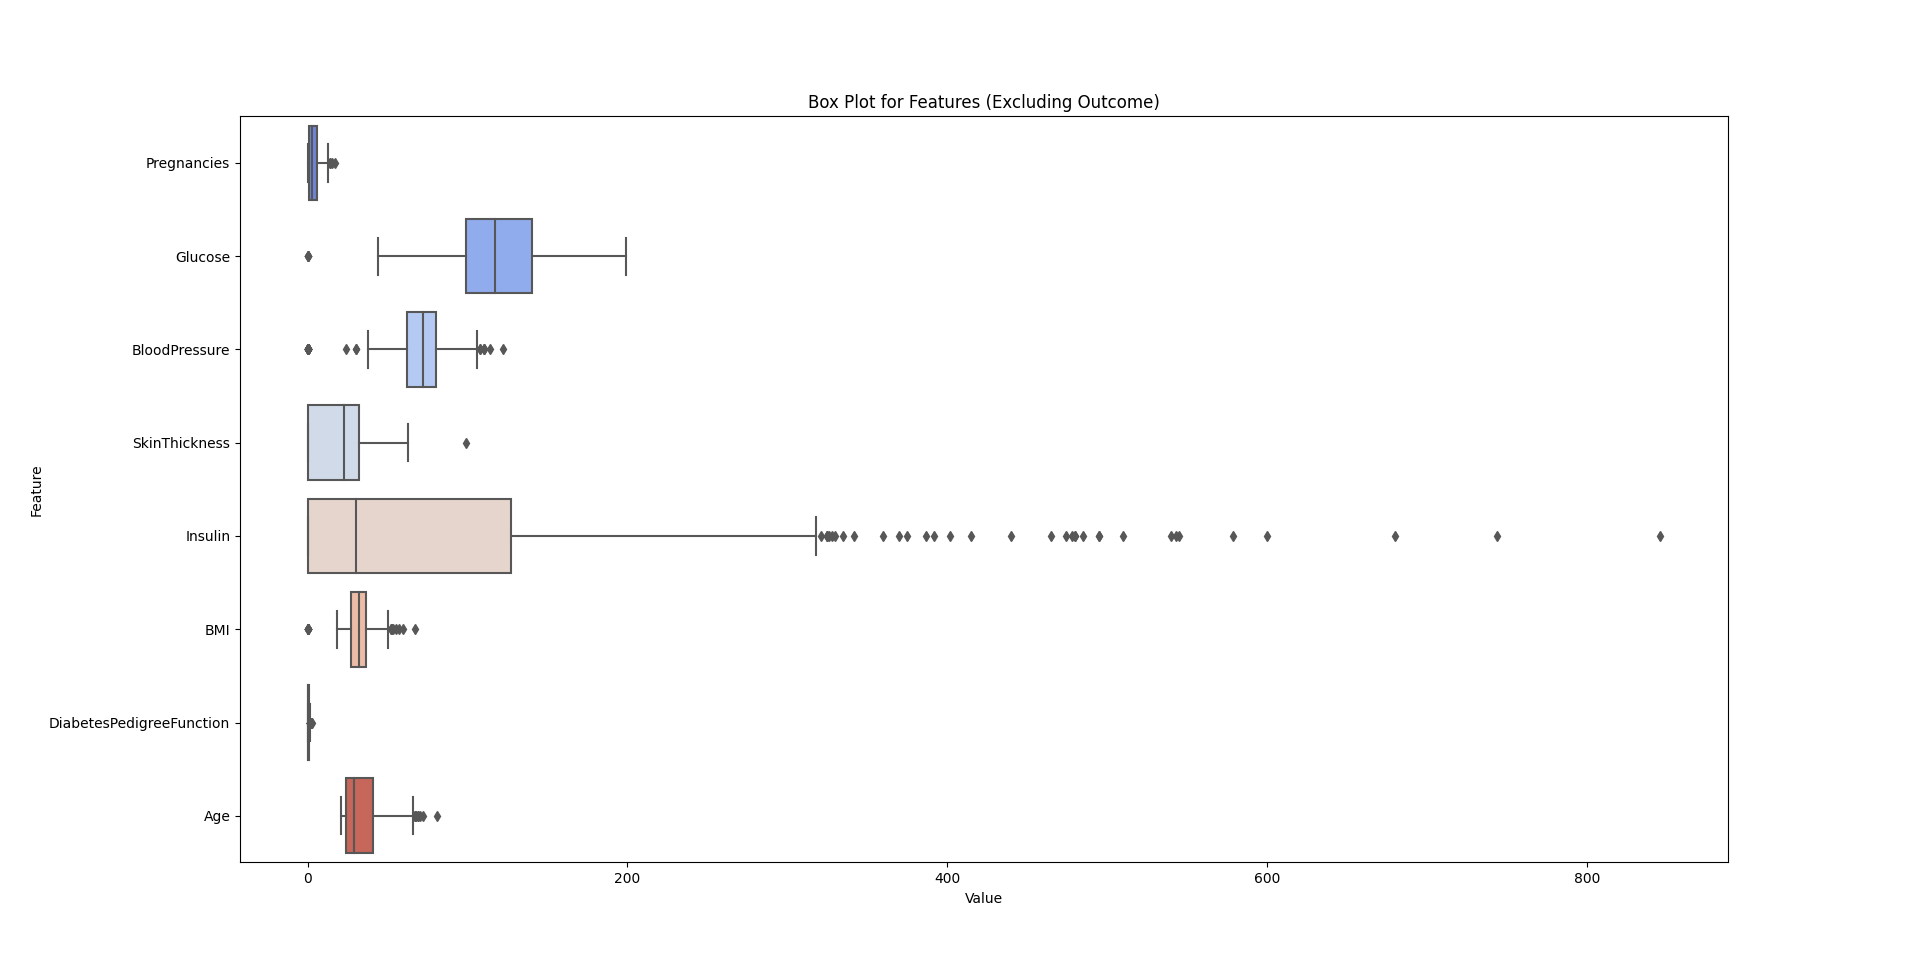
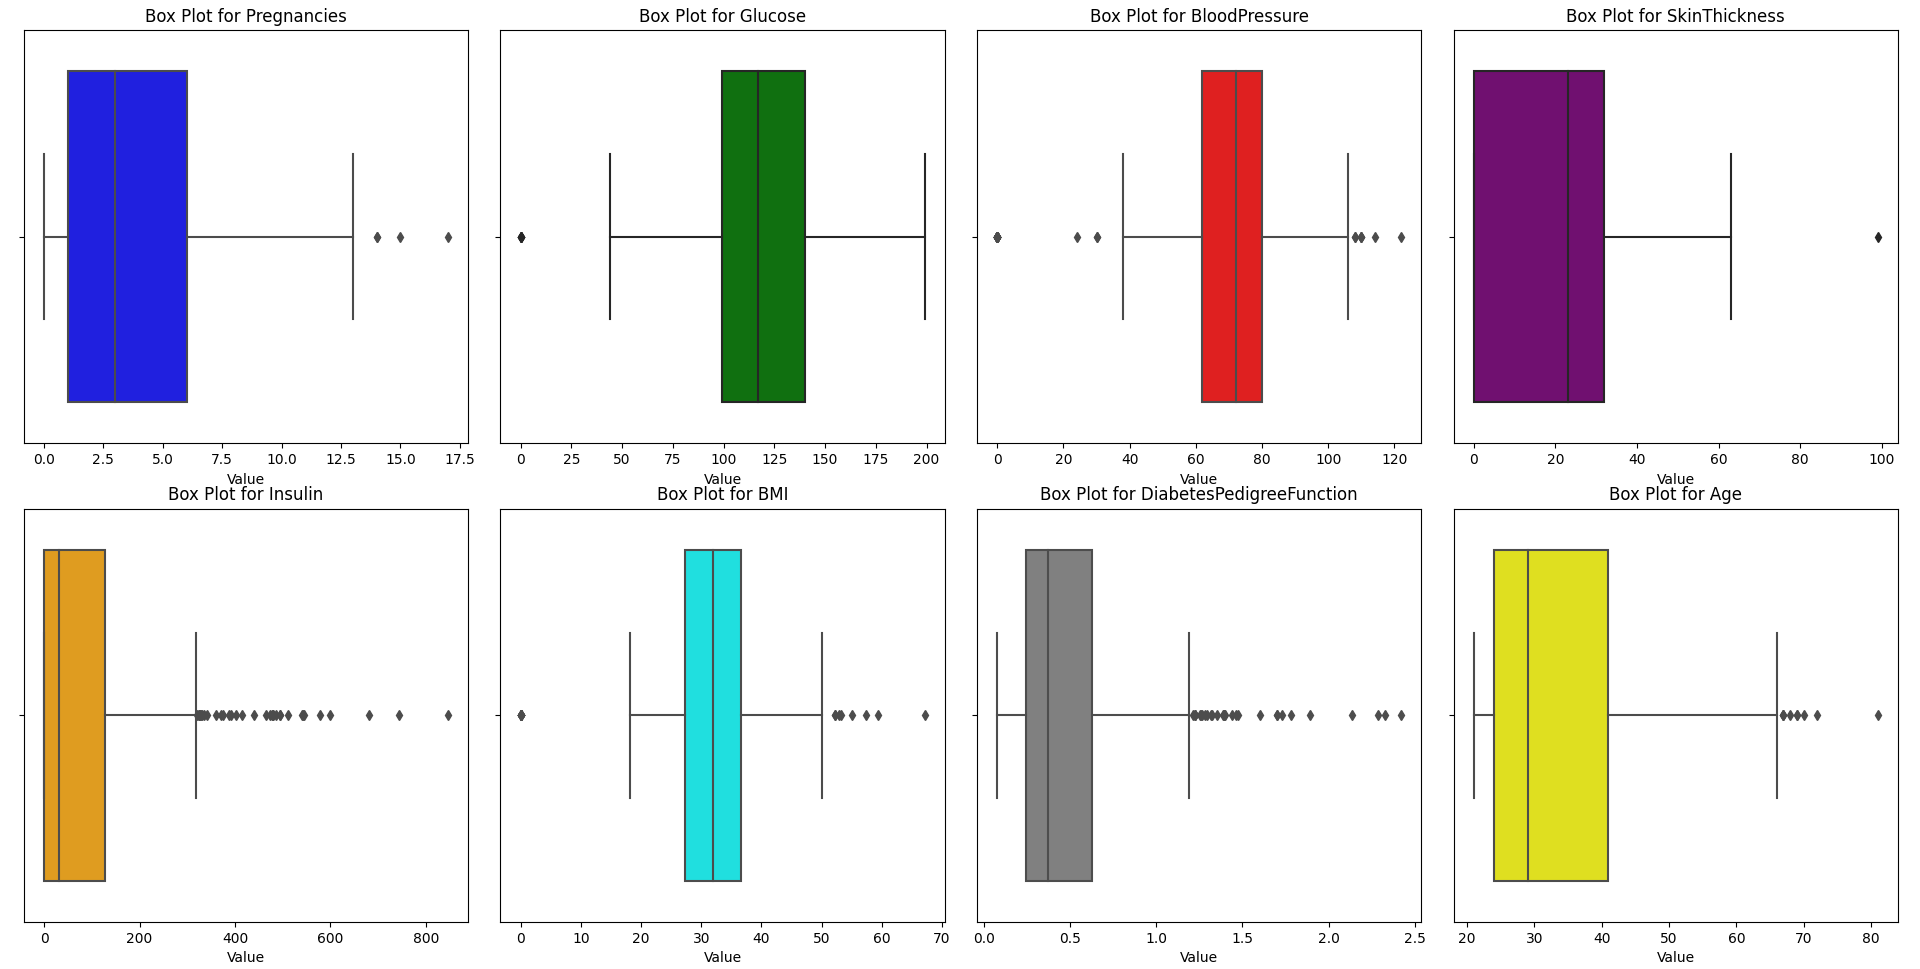
Update: Result for box plot and include requirement for storing library dependencies.

diff --git a/src/boxplot.py b/src/boxplot.py
@@ -3,15 +3,31 @@ import seaborn as sns
 import matplotlib.pyplot as plt
 
 # Load the CSV file into a pandas DataFrame
-df = pd.read_csv('diabetes_data.csv')
+df = pd.read_csv('C:/Users/roeyy/OneDrive/Desktop/ML-Training/dataset/diabetes_data.csv')
 
 # Exclude the 'Outcome' column
 df_features = df.drop(columns=['Outcome'])
 
-# Create a box plot for each feature
-plt.figure(figsize=(12, 8))  # Set the size of the plot
-sns.boxplot(data=df_features, orient='h', palette='coolwarm')
-plt.title('Box Plot for Features (Excluding Outcome)')
-plt.xlabel('Value')
-plt.ylabel('Feature')
+# Set up subplots
+num_features = len(df_features.columns)
+num_rows = 2
+num_cols = num_features // 2  # 2 subplots in 1 row
+fig, axes = plt.subplots(nrows=num_rows, ncols=num_cols, figsize=(16, 12))
+
+# Flatten axes for easy iteration
+axes = axes.flatten()
+
+# Define a list of colors for each subplot
+colors = ['blue', 'green', 'red', 'purple', 'orange', 'cyan','grey','yellow']
+
+# Create box plots for each feature
+for i, col in enumerate(df_features.columns):
+    sns.boxplot(x=df_features[col], ax=axes[i], orient='h', color=colors[i])  # Using different color for each subplot
+    axes[i].set_title(f'Box Plot for {col}', fontsize=12)  # Setting font size to 12
+    axes[i].set_xlabel('Value')
+    axes[i].set_ylabel(None)  # No label for y-axis
+
+# Adjust layout
+plt.subplots_adjust(hspace=0.5)  # Increase vertical spacing between subplots
+plt.tight_layout()
 plt.show()
